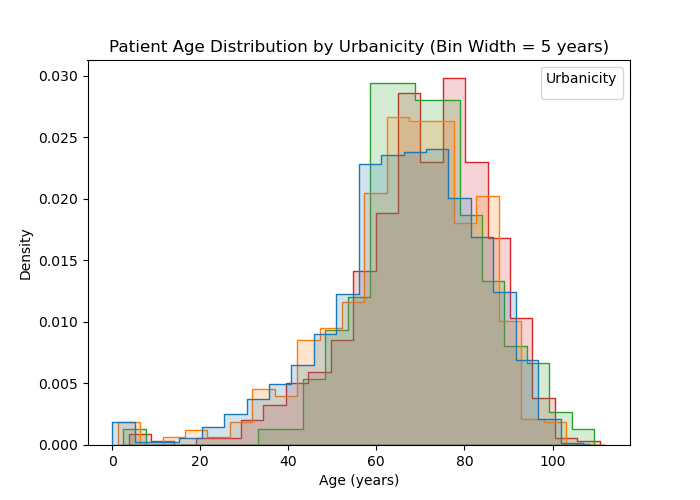
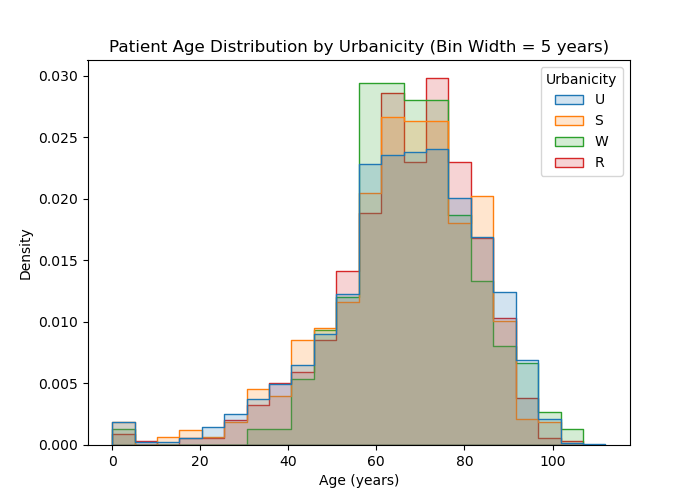
updating README, Makefile, adding column_info_sample.py, fixing bug in eda_charts_sample.py

Changed region(s): [[0.15, 0.15, 0.87, 0.9], [0.78, 0.15, 0.9, 0.36]]

diff --git a/src/data/column_info_sample.py b/src/data/column_info_sample.py
@@ -1,0 +1,39 @@
+import pandas as pd
+from pathlib import Path
+
+def main():
+    # read temp CSV file
+    data_fp = Path(__file__).parent.parent.parent / 'data_sample'  / 'events_renamed_sample.csv'
+    df = pd.read_csv(data_fp)
+
+    # get the columns, and total # of rows
+    col_names = df.columns.tolist()
+    n_rows = df.shape[0]
+
+    # open a txt file to save info. about each column
+    f = open("./reports/preliminary_eda_sample.txt", "w")
+    f.write("Table: events_renamed.pickle\n")
+    f.write(f"\tNumber of Rows: {n_rows}\n")
+    f.write(f"\tNumber of Columns: {len(col_names)}\n\n")
+
+    # print out some info. about each column
+    for i in range(len(col_names)):
+        col_name = col_names[i]
+        num_nulls = n_rows - (df[df.columns[i]].count()) 
+        num_unique = df[df.columns[i]].nunique()
+
+        print(f"Column at Index {i}: '{col_name}'\n\tDatatype: {df[col_name].dtype}")
+        print(f"\tNumber of Null Values: {num_nulls}  |  Percent Null: {round(num_nulls / n_rows * 100, 2)}%")
+        print(f"\tNumber of Unique Values: {num_unique}\n")
+        
+        f.write(f"**Column at Index {i}: '{col_name}'**\n - Datatype: {df[col_name].dtype}")
+        f.write(f"\n - Number of Null Values: {num_nulls}  |  Percent Null: {round(num_nulls / n_rows * 100, 2)}%")
+        f.write(f"\n - Number of Unique Values: {num_unique}\n\n")
+
+    f.close() # make sure to close the text file
+
+    # print(df['ageinyear'].head(5)) # may be uncommented to see some example data from a col
+
+
+if __name__ == "__main__":
+    main()

diff --git a/src/data/eda_charts_sample.py b/src/data/eda_charts_sample.py
@@ -23,13 +23,10 @@ def main():
 
     # hue-mapped histogram of age by urbanicity
     plt.figure(figsize=(7, 5))
-    sns.histplot(data=df, x="ageinyear", hue="Urbanicity", multiple="dodge", element="step", stat="density",
-                 common_norm=False, binwidth=5, alpha=0.2)
+    sns.histplot(data=df, x="ageinyear", hue="Urbanicity", element="step", stat="density", common_norm=False, binwidth=5, alpha=0.2)
     plt.title("Patient Age Distribution by Urbanicity (Bin Width = 5 years)")
     plt.xlabel("Age (years)")
     plt.ylabel("Density")
-    handles, labels = plt.gca().get_legend_handles_labels()
-    plt.legend(handles, labels, title="Urbanicity")
     plt.savefig("figs/fig_samples/age-histogram-by-urbanicity_sample.png")
     plt.show()
 

diff --git a/README.md b/README.md
@@ -12,8 +12,12 @@ Links for our EDA can be found below:
 - [Additional EDA with Charts](./EDA.md)
 
 ### EDA - Makefile Instructions
-1) Due to file size concerns, all data has been gitignored. Follow [Aaron Fihn's instructions](./Makefile_overview.md) for downloading the data, then run his **make** command to prepare the *events_renamed.pickle* file
-1) **make environment** can be run to create a conda environment named dsProjEnv. This is separate from Aaron's file due to older dependency issues, but his original environment.yml file was renamed to *environment_Aaron-Fihn.yml*. Our current file is named *environment.yml*
-1) **conda activate dsProjEnv** to activate our conda environment
-1) **make prelim-eda** can be run to generate the file *"reports/preliminary_eda.txt"*, which has information on the size of the data table, and columns available.
-1) **make eda-charts** can be run to generate three plots in the *figs/* directory, and display them. These plots show an initial investigation into the patient age by urbanicity.
+1) **make environment** can be run to create a conda environment named `project-duggani`. This is separate from Aaron's file due to older dependency issues, but his original environment.yml file was renamed to *environment_Aaron-Fihn.yml*. Our current file is named *environment.yml*
+1) **conda activate project-duggani** to activate our conda environment
+1) **make prelim-eda_sample** can be run to generate the file *"reports/preliminary_eda_sample.txt"*, which has information on the size of the data table, and columns available. *Note: see reports/preliminary_eda.txt for the file that was generated from the full dataset*
+1) **make eda-charts_sample** can be run to make the directory *figs/fig_samples* and generate three plots. These plots show an initial investigation into the patient age by urbanicity. *Note: see the figs/ directory for the charts that were generated from the full dataset*
+
+**Note Re: Data**:
+* For easier replication of our initial EDA by the TA's, we have a small CSV file with a subset of the data in *data_sample/events_renamed_sample.csv*
+* *Due to file size concerns, all other data has been gitignored. If you want to work with the full dataset, follow [Aaron Fihn's instructions](./Makefile_overview.md) for downloading the data, then run his **make** command to prepare the events_renamed.pickle file*
+
